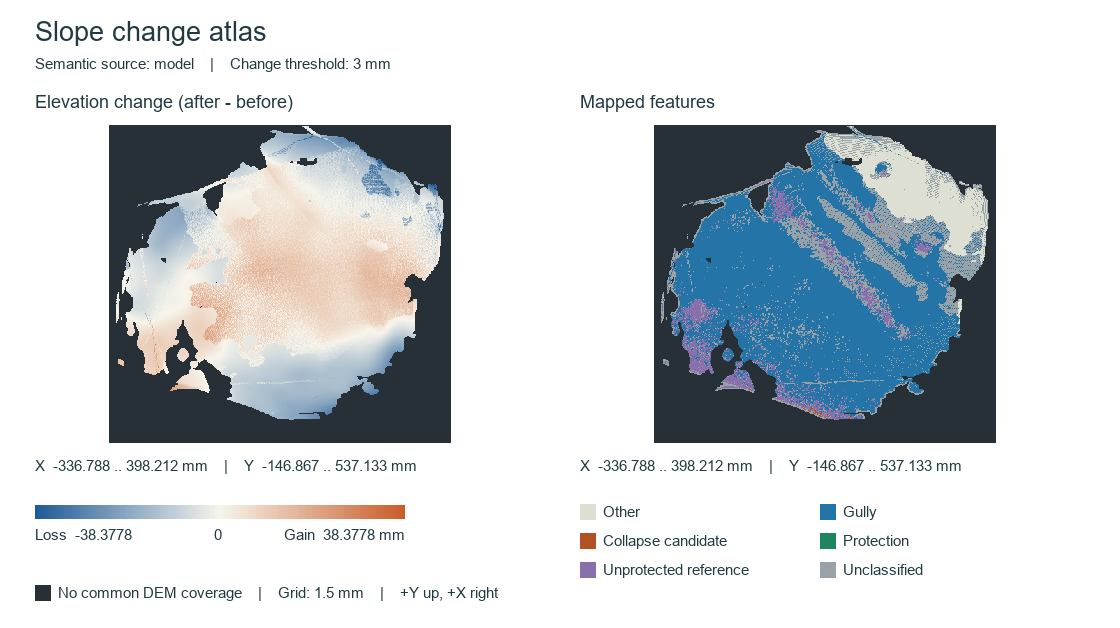
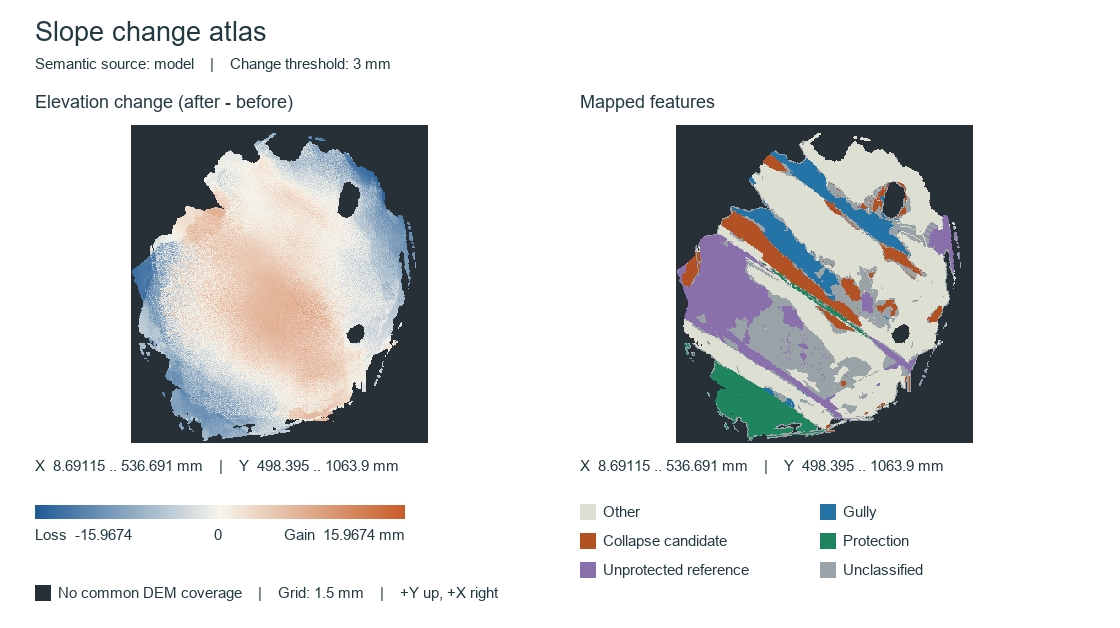
Show semantic classes on the demo scene and refresh the atlas figure

diff --git a/scripts/make_synthetic_photos.py b/scripts/make_synthetic_photos.py
@@ -51,6 +51,15 @@ def _albedo(x, y, rng):
     broad = 0.06 * np.sin(6.0 * x) * np.cos(4.5 * y) + 0.04 * np.sin(11.0 * y + 1.0)
     speckle = (rng.random(x.shape) < 0.05).astype(np.float32) * 0.16
     base = np.stack([0.55 + grain + broad, 0.45 + grain + broad, 0.33 + grain + broad], axis=-1)
+    mat = (x > -0.45) & (x < -0.25)
+    if mat.any():
+        grid = ((np.sin(80 * x) > 0.6) | (np.sin(80 * y) > 0.6)).astype(np.float32) * 0.12
+        base[mat] = np.stack([0.22 + grid[mat], 0.42 + grid[mat], 0.28 + grid[mat]], axis=-1)
+    reference = (x > -0.21) & (x < -0.02)
+    if reference.any():
+        base[reference] = np.stack([0.62 + grain[reference], 0.50 + grain[reference], 0.36 + grain[reference]], axis=-1)
+        frame = reference & ((x < -0.198) | (x > -0.032))
+        base[frame] = np.array([0.88, 0.88, 0.84])
     return np.clip(base - speckle[..., None], 0.05, 0.95)
 
 
@@ -73,11 +82,17 @@ def _render(points, colours, rotation, eye, focal=FOCAL):
     inside = (u >= 0) & (u < WIDTH) & (v >= 0) & (v < HEIGHT)
     u, v, colours, depth = u[inside], v[inside], colours[inside], depth[inside]
 
-    order = np.argsort(-depth)  # far to near, nearest wins
-    image = np.full((HEIGHT, WIDTH, 3), 0.93, dtype=np.float32)
-    image[v[order], u[order]] = colours[order]
+    us = np.concatenate([u + dx for dx in (-1, 0, 1)])
+    vs = np.concatenate([v + dy for dy in (-1, 0, 1)])
+    cs = np.concatenate([colours] * 3)
+    ds = np.concatenate([depth] * 3)
+    ok = (us >= 0) & (us < WIDTH) & (vs >= 0) & (vs < HEIGHT)
+    us, vs, cs, ds = us[ok], vs[ok], cs[ok], ds[ok]
+    order = np.argsort(-ds)  # far to near, nearest wins
+    image = np.full((HEIGHT, WIDTH, 3), float(np.median(cs.min(axis=0))), dtype=np.float32)
+    image[vs[order], us[order]] = cs[order]
     covered = np.zeros((HEIGHT, WIDTH), dtype=np.uint8)
-    covered[v, u] = 255
+    covered[vs, us] = 255
 
     holes = cv2.bitwise_not(cv2.dilate(covered, np.ones((3, 3), np.uint8)))
     rgb = cv2.inpaint((image * 255).astype(np.uint8), holes, 4, cv2.INPAINT_TELEA)
